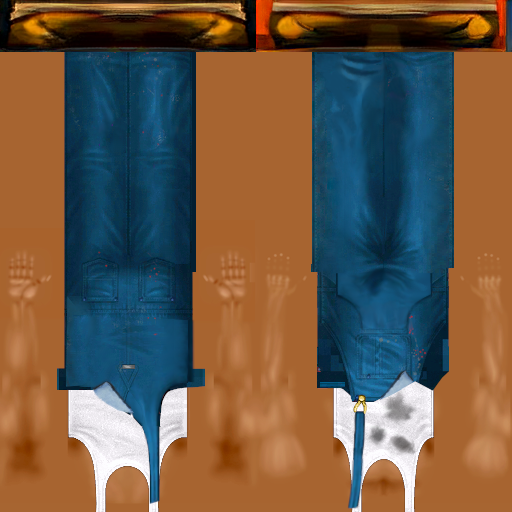
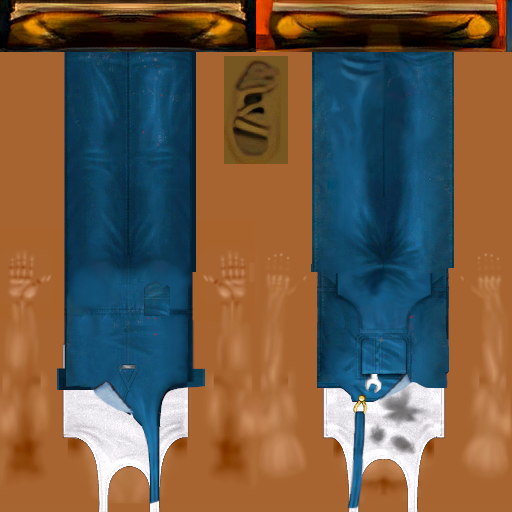
Added UI: CAS, zodiac signs, aspiration

diff --git a/README.md b/README.md
@@ -1,7 +1,9 @@
 # The Sims 2 PSP HD Texture Pack
 
 <p align="center"><img src="./screenshots/comparison1.jpg"></p>
+<p align="center"><img src="./screenshots/comparison2.jpg"></p>
 
 A texture pack for *The Sims 2(PSP)* made for the PPSSPP emulator
 
-The main goal is to remake the UI for higher resolutions, other textures may come eventually
+This project was started to remake the UI and make it more pleasant to look at. I will be gradually adding more textures.
+Higher resolution textures have been imported from the PC version or remade by hand if there is no equivalent to be found.
